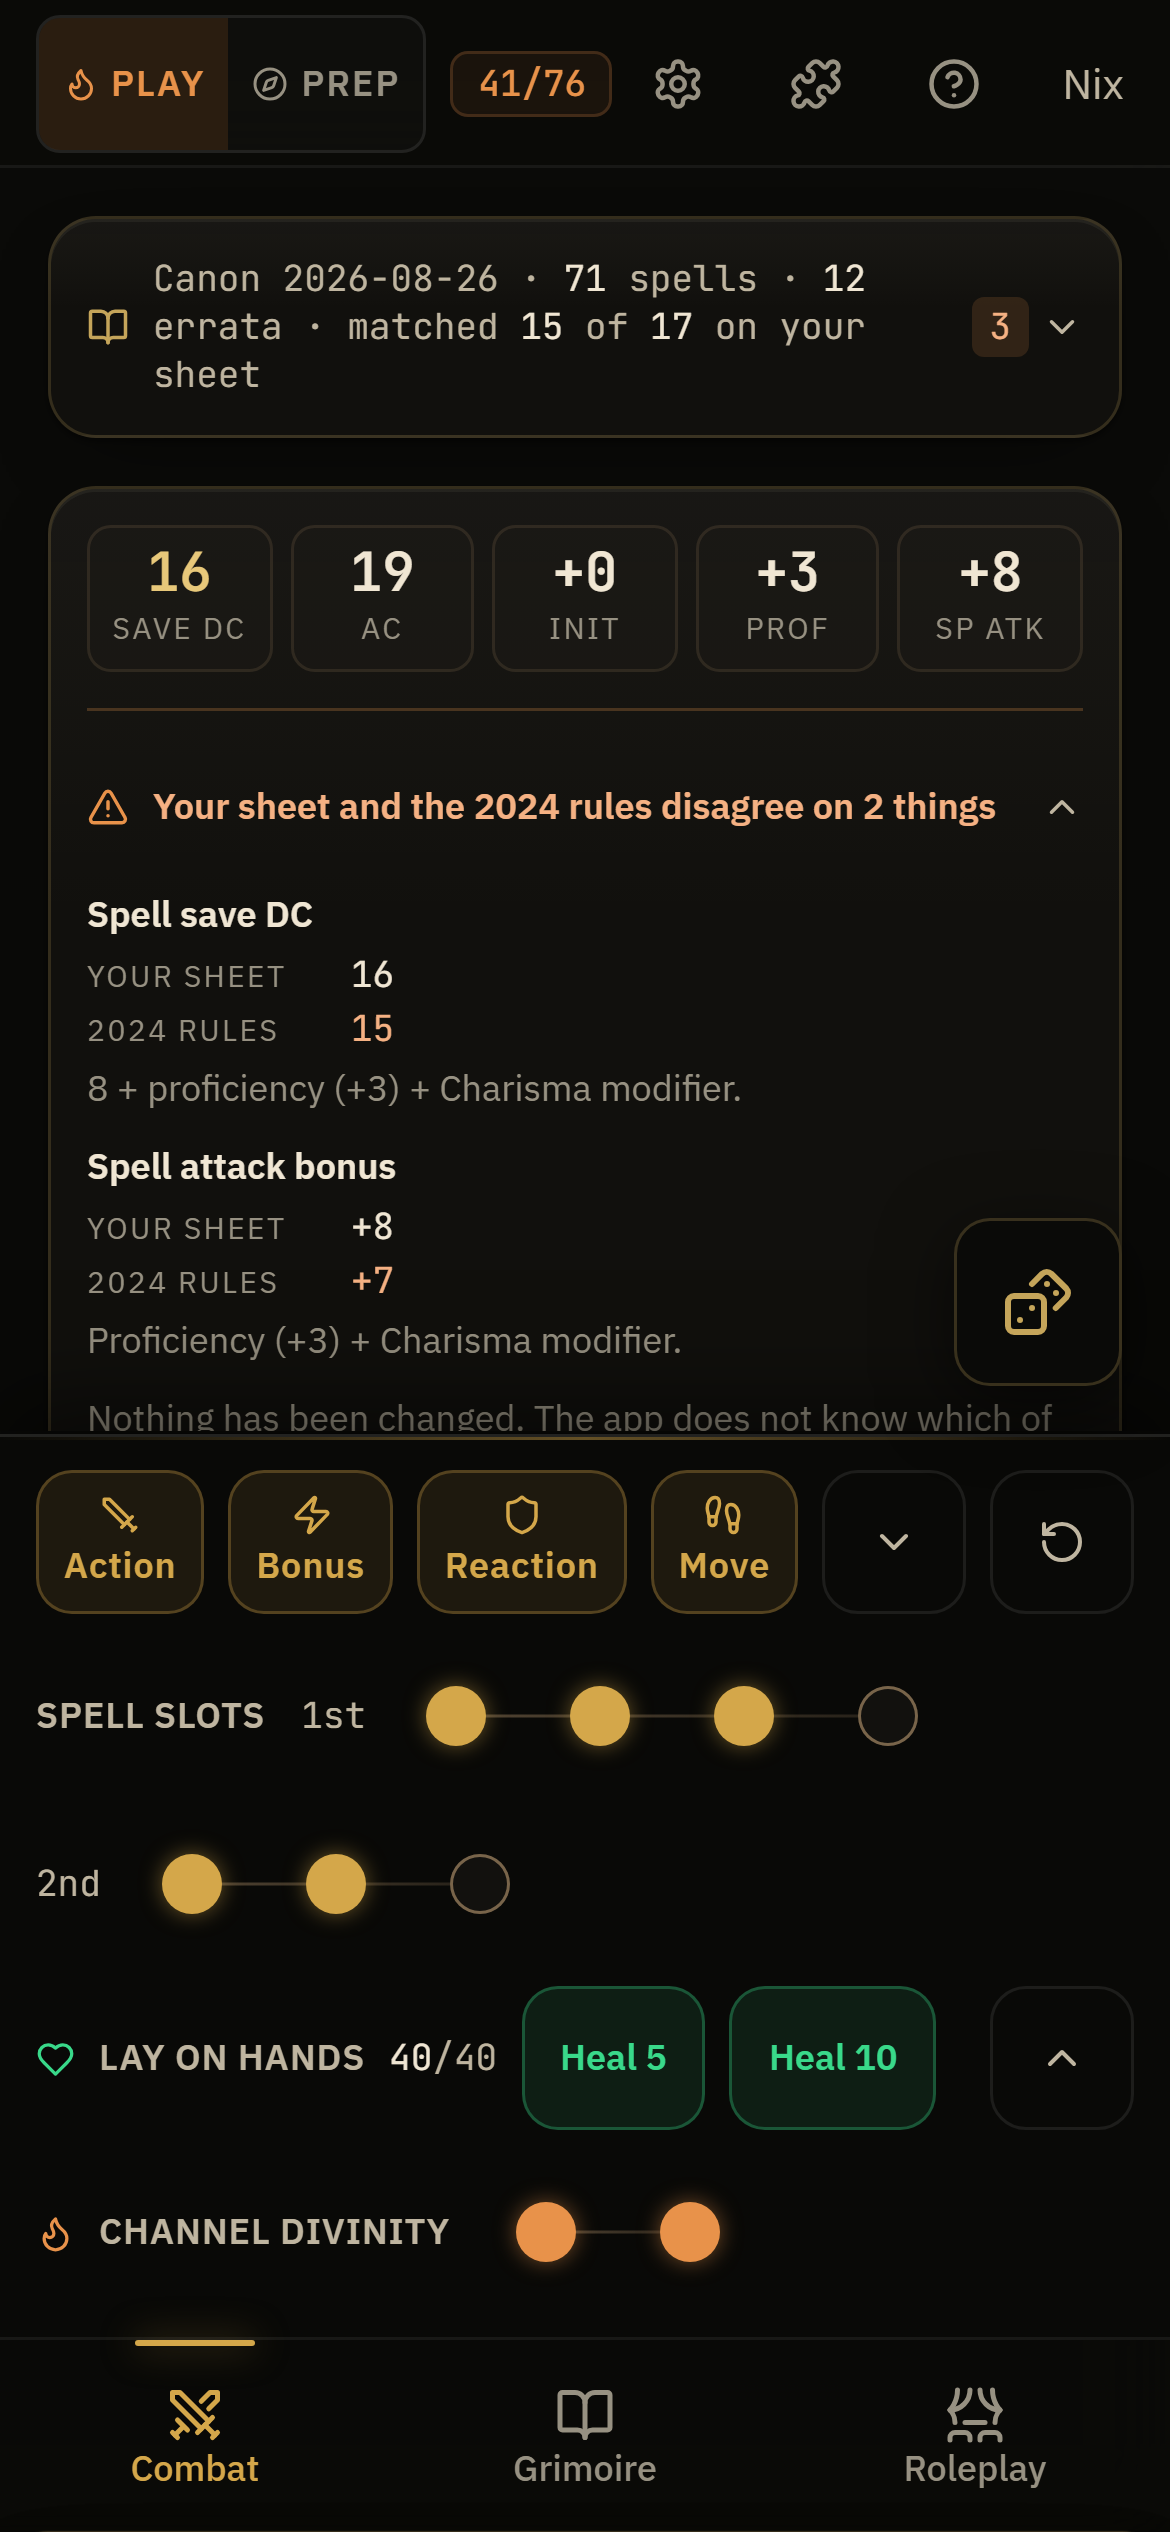
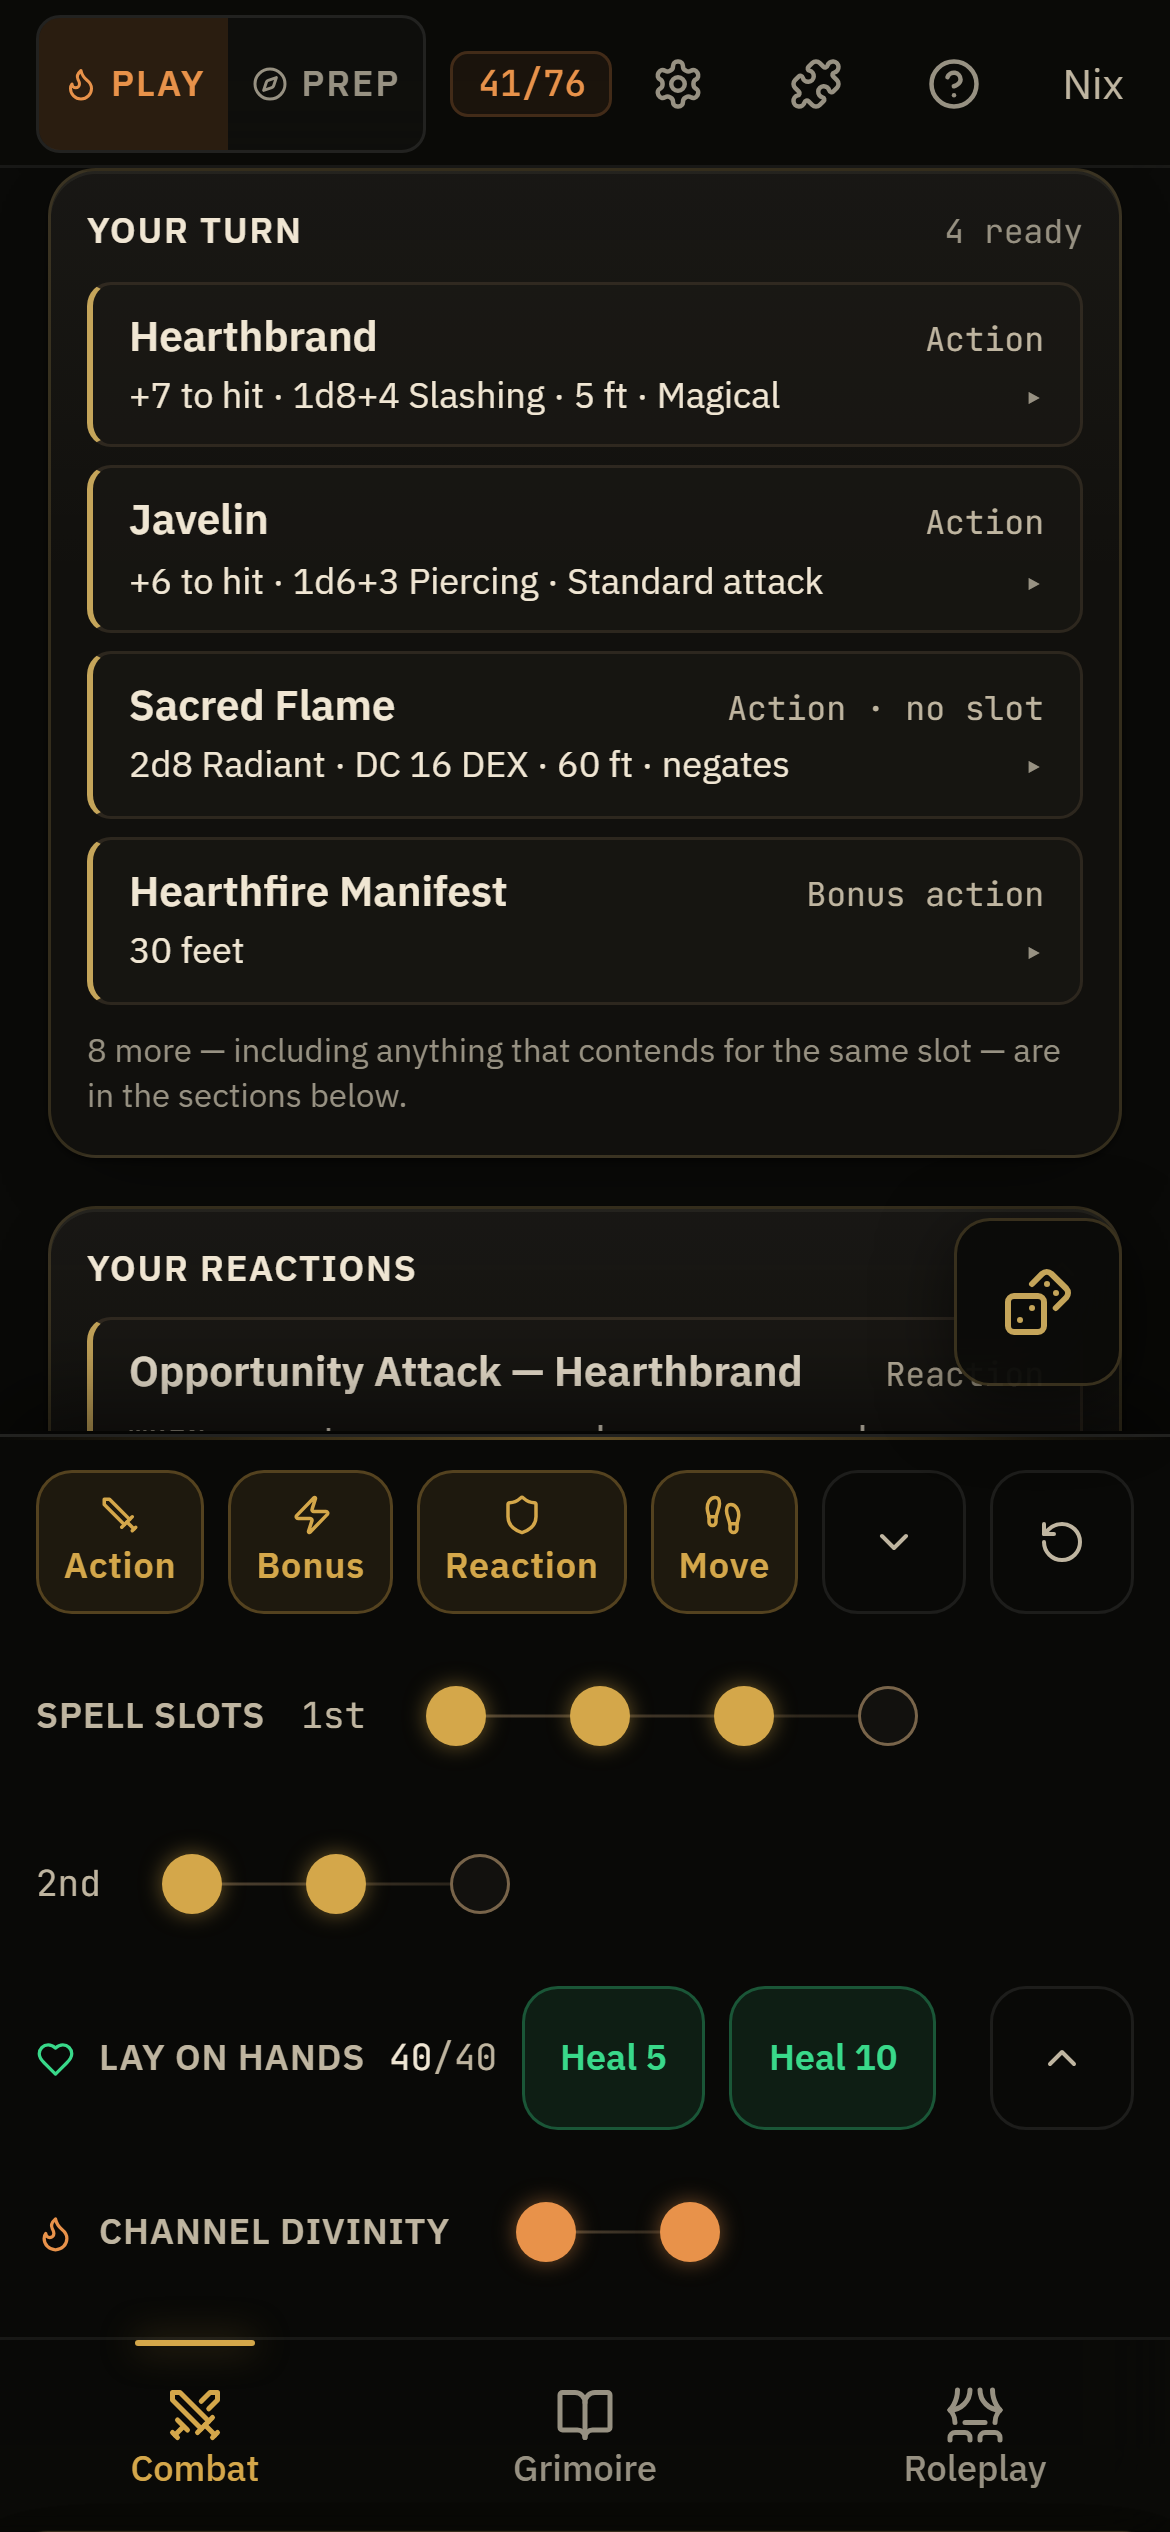
slice 7 — unglue the dash from a tactics heading, and shoot the screen honestly
Band 4 painted «IT IGNORES COVER— that is …». splitTactics gives the separator
to the body and trims its leading space, which is right for a colon (it attaches
to the word before it) and wrong for a dash (it does not).

Fixed in the RENDERER, not the model: the model keeps canon's characters exactly,
and the space is a fact about two elements sitting next to each other, which only
the renderer knows. Fixing it in splitTactics would have edited canon's text.

The obvious test could not have caught it — the test helper replaces every tag
with a space, manufacturing the exact gap in question. So the assertion reads the
raw markup (</b>— vs </b> —), plus a second test pinning the colon tight so an
over-broad "add a space everywhere" fix fails too. Verified red against the
pre-change component before being accepted green.

Shot A claimed "rows now tappable" while showing a viewport where the sticky deck
covers every row. It now scrolls to them — and A0 keeps the un-scrolled truth,
because "you have to scroll to reach it" is a measurement Marcus is owed, not one
to hide behind a nicer screenshot.

  tsc 0 · vitest 29 files 653/653 (+2) · JS 647.8/700 KB · prove-slice7 PASS, 0 errors

diff --git a/src/components/combat/OptionDetailSheet.test.tsx b/src/components/combat/OptionDetailSheet.test.tsx
@@ -167,6 +167,30 @@ describe('OptionDetailBody — band 4 is folded by default', () => {
     expect(text(open)).toContain('SMITE AFTER YOU SEE THE ROLL')
   })
 
+  it('does not glue a dash separator onto the heading', () => {
+    /* MEASURED OFF THE SCREENSHOT, not off the model. Canon writes
+       «IT IGNORES COVER — that is Sacred Flame's unique selling point».
+       `splitTactics` gives the separator to the body and trims its leading
+       whitespace, which is correct for a colon (it attaches to the word before
+       it) and wrong for a dash (it does not) — so band 4 painted
+       «IT IGNORES COVER— that is».
+
+       ASSERTED ON THE RAW MARKUP ON PURPOSE. The `text()` helper replaces every
+       tag with a space, so it manufactures the very gap this test is about and
+       would pass against the glued render. Adjacency of two elements is a claim
+       about the markup, so it is read there. */
+    const html = paint(byName('Sacred Flame'), FRESH, true)
+    expect(html).toContain('IT IGNORES COVER')
+    expect(html).not.toMatch(/<\/b>[—–]/)
+    expect(html).toMatch(/<\/b>\s[—–]/)
+  })
+
+  it('keeps a colon separator tight against the heading', () => {
+    // The other half of the rule, so a fix that adds a space everywhere fails.
+    const html = paint(byName('Sacred Flame'), FRESH, true)
+    expect(html).toMatch(/RADIANT IS EXCELLENT<\/b>:/)
+  })
+
   it('keeps canon’s capitals — the headings are not retitled', () => {
     /* The capitals are canon's own emphasis. Sentence-casing them would be the
        app editing the book to suit its typography. */

diff --git a/src/components/combat/OptionDetailSheet.tsx b/src/components/combat/OptionDetailSheet.tsx
@@ -240,6 +240,16 @@ export function OptionDetailBody({
                   className="relative pl-3.5 text-[13px] leading-relaxed text-forge-0 before:absolute before:left-0 before:top-2 before:h-1 before:w-1 before:rounded-full before:bg-gold"
                 >
                   {bullet.lead && <b className="font-semibold text-arcane">{bullet.lead}</b>}
+                  {/* A colon attaches to the word before it; a dash does not.
+                      Canon writes both, and `splitTactics` hands the separator
+                      to the body with its leading whitespace trimmed — so
+                      «IT IGNORES COVER — that is» arrived on screen as
+                      «IT IGNORES COVER— that is». Put the space back for
+                      dashes only. This is TYPOGRAPHY AND IT LIVES HERE: the
+                      model must keep canon's characters exactly, and the space
+                      is a fact about two rendered elements sitting next to each
+                      other, which only the renderer knows about. */}
+                  {bullet.lead && /^[—–-]/.test(bullet.body) ? ' ' : ''}
                   {bullet.body}
                 </li>
               ))}

diff --git a/docs/plans/table-truth/00-status.md b/docs/plans/table-truth/00-status.md
@@ -767,14 +767,14 @@ the table Marcus's eye learns one shape and never re-learns it.
 - `src/components/CombatHelper.tsx` — `OptionDetailSheetLive` mounted once, above the deck; both
   lists forward `onOpen`.
 - Tests: `detail.test.ts`, `rolls.test.ts`, `tactics.test.ts`, `OptionDetailSheet.test.tsx`,
-  +`reactions.test.ts` — **71 tests across the five files**, 651/651 for the suite.
+  +`reactions.test.ts` — **73 tests across the five files**, 653/653 for the suite.
 - `docs/plans/table-truth/prove-slice7.mjs` — **new**, six cases in a real browser.
 
 **Measured**
 
 ```
 npx tsc --noEmit        EXIT=0
-npx vitest run          29 files · 651/651   (was 597/25; +54)
+npx vitest run          29 files · 653/653   (was 597/25; +56)
 bundle                  canon 53.3/70 KB · JS 647.8/700 KB · CSS 25.4/40 KB   (JS +2.8)
 prove-slice7.mjs        PASS · 0 console errors
 
@@ -898,6 +898,25 @@ actually hides bullets rather than decorating them. This is the standing "real t
 appearing in a prover instead of a unit test, and it is easier to miss here because the run is long
 and the report is a wall of numbers.
 
+### Finding AK — a defect only the screenshot could find, and only the markup could test
+
+Band 4 painted **«IT IGNORES COVER— that is …»**: an em-dash glued to the heading. `splitTactics`
+hands the separator to the body and trims its leading whitespace, which is **right for a colon**
+(`RADIANT IS EXCELLENT: rarely resisted` — a colon attaches to the word before it) and **wrong for
+a dash** (it does not).
+
+Two things about it are worth keeping:
+
+1. **The fix belongs in the renderer, not the model.** The model must keep canon's characters
+   exactly; the space is a fact about two rendered elements sitting next to each other, which only
+   the renderer knows. Fixing it in `splitTactics` would have meant editing canon's text and would
+   have broken the invariant that bodies start with their separator.
+2. **The obvious test could not have caught it.** `OptionDetailSheet.test.tsx`'s `text()` helper
+   replaces every tag with a space — it *manufactures* the exact gap in question and passes against
+   the glued render. The assertion therefore reads the **raw markup** (`</b>—` vs `</b> —`), and a
+   second test pins the colon staying tight so an over-broad "add a space" fix fails too. Verified
+   red against the pre-change component before being accepted green.
+
 ### Deliberate omissions
 
 - **No contention UI.** See finding AB — slice 9.
@@ -915,6 +934,12 @@ The sheet opens at **y=364 on an 844px phone and stands 481px tall**, which is f
 is not: the turn list starts at y=526 and the reactions band at y=872, so Marcus still scrolls
 before he can tap anything. Nothing above them has retired yet. Slice 9 is where the vertical
 comes back.
+
+Said with two screenshots rather than one: **`A0-play-tab-as-it-opens.png`** is the tab as it
+actually opens — canon strip, vitals, the spell-slot disagreement panel, the sticky deck — with not
+one tappable row in sight. **`A-play-tab-rows-now-tappable.png`** is the same tab scrolled to them.
+A prover that only shot the second would have been telling the truth about the rows and lying about
+the screen.
 
 ## Live-app evidence, 2026-08-26 (from Marcus's own screenshots)
 
